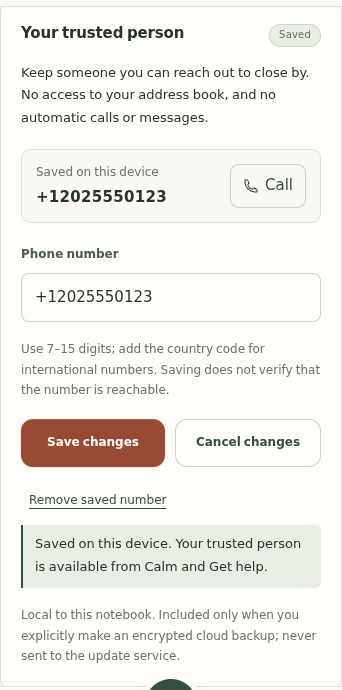
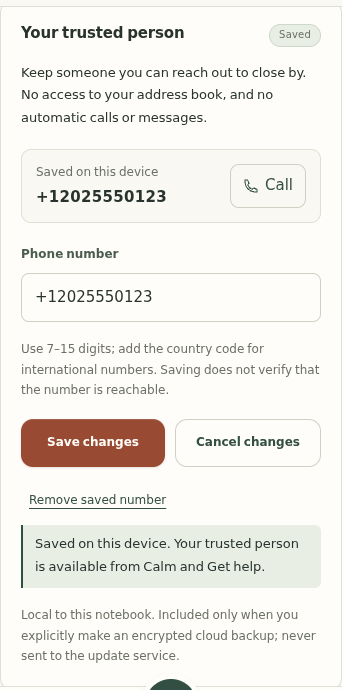
Verify Google activation and refine resilient sign-in and contact edit feedback

diff --git a/src/account.js b/src/account.js
@@ -22,6 +22,7 @@ export function createAccountController(c) {
   const notify = (text, error = false) => {
     message = text;
     problem = error;
+    if (["panic", "crisis"].includes(c.getPage())) return;
     const el =
       c.root.querySelector("#account-status") ||
       c.root.querySelector("#global-status");
@@ -40,6 +41,11 @@ export function createAccountController(c) {
     return `<p id="account-status" role="status" aria-live="polite" class="status ${problem ? "error" : ""}">${c.escape(message)}</p>`;
   }
   function authError(error) {
+    if (error?.code === "google_settings_unavailable")
+      return tr(
+        "Could not check Google sign-in right now. Check your connection and try again. This does not mean your account is disabled; guest mode and Calm are still available.",
+        "अभी Google साइन-इन की उपलब्धता नहीं जाँच सके। कनेक्शन जाँचकर फिर कोशिश करें। इसका अर्थ खाता बंद होना नहीं है; अतिथि मोड और सुकून उपलब्ध हैं।",
+      );
     if (error?.code === "google_provider_disabled")
       return tr(
         "Google sign-in is not enabled for Saath yet. The project owner must configure Google OAuth in Supabase. Email sign-in and guest mode are still available.",
@@ -65,24 +71,36 @@ export function createAccountController(c) {
       "अनुरोध पूरा नहीं हुआ। जानकारी और कनेक्शन जाँचकर फिर कोशिश करें।",
     );
   }
+  function syncBusyUI() {
+    c.root
+      .querySelectorAll(
+        '#account-form button, [data-action="google-signin"], #google-consent',
+      )
+      .forEach((el) => (el.disabled = busy));
+    for (const el of c.root.querySelectorAll(
+      '#account-form, .google-option, [data-action="google-signin"]',
+    )) {
+      if (busy) el.setAttribute("aria-busy", "true");
+      else el.removeAttribute("aria-busy");
+    }
+    const label = c.root.querySelector("[data-google-label]");
+    if (label)
+      label.textContent = busy
+        ? tr("Please wait…", "कृपया प्रतीक्षा करें…")
+        : tr("Continue with Google", "Google से जारी रखें");
+  }
   async function run(task) {
     if (busy) return;
     busy = true;
-    notify("");
-    c.root
-      .querySelectorAll('#account-form button, [data-action="google-signin"]')
-      .forEach((el) => (el.disabled = true));
-    c.root.querySelector("#account-form")?.setAttribute("aria-busy", "true");
+    notify(tr("Working…", "काम चल रहा है…"));
+    syncBusyUI();
     try {
       await task();
     } catch (error) {
       notify(authError(error), true);
     } finally {
       busy = false;
-      c.root
-        .querySelectorAll('#account-form button, [data-action="google-signin"]')
-        .forEach((el) => (el.disabled = false));
-      c.root.querySelector("#account-form")?.removeAttribute("aria-busy");
+      syncBusyUI();
       c.root
         .querySelectorAll("#auth-password, #vault-password")
         .forEach((el) => (el.value = ""));
@@ -155,7 +173,7 @@ export function createAccountController(c) {
     return `<div class="card account-summary"><div class="eyebrow">${tr("ACCOUNT", "खाता")}</div><h2>${user ? tr("Signed in", "साइन इन है") : tr("On this device only", "केवल इस डिवाइस पर")}</h2><p>${user ? c.escape(user.email || "") : tr("No account needed for local journaling or Calm.", "स्थानीय डायरी या सुकून के लिए खाता ज़रूरी नहीं।")}</p>${c.button(user ? tr("Account & backup", "खाता और बैकअप") : tr("Sign in / create account", "साइन इन / खाता बनाएँ"), user ? "account" : "login", "quiet wide")}</div>`;
   }
   function googleOption() {
-    return `<div class="google-option">${status()}<label class="check-row"><input id="google-consent" type="checkbox"><span>${tr("I am 18+ and choose to share my Google email and basic profile with Supabase for sign-in. This device stores my session; my notebook is not uploaded.", "मैं 18+ हूँ और साइन-इन के लिए अपना Google ईमेल और बुनियादी प्रोफ़ाइल Supabase से साझा करना चुनता/चुनती हूँ। यह डिवाइस सत्र रखता है; डायरी अपलोड नहीं होती।")}</span></label>${c.button(tr("Continue with Google", "Google से जारी रखें"), "google-signin", "quiet wide google-button")}<p class="auth-divider">${tr("or use email", "या ईमेल उपयोग करें")}</p></div>`;
+    return `<div class="google-option">${status()}<label class="check-row"><input id="google-consent" type="checkbox"><span>${tr("I am 18+ and choose to share my Google email and basic profile with Supabase for sign-in. This device stores my session; my notebook is not uploaded.", "मैं 18+ हूँ और साइन-इन के लिए अपना Google ईमेल और बुनियादी प्रोफ़ाइल Supabase से साझा करना चुनता/चुनती हूँ। यह डिवाइस सत्र रखता है; डायरी अपलोड नहीं होती।")}</span></label>${c.button(`<span class="google-state-mark" aria-hidden="true">G</span><span data-google-label>${tr("Continue with Google", "Google से जारी रखें")}</span>`, "google-signin", "quiet wide google-button")}<p class="auth-divider">${tr("or use email", "या ईमेल उपयोग करें")}</p></div>`;
   }
   function renderPage(page) {
     if (!accountPages.includes(page)) return null;
@@ -179,6 +197,7 @@ export function createAccountController(c) {
     return `<h1>${tr("A backup, only if you want one.", "बैकअप, अगर आप चाहें।")}</h1><p>${tr("One encrypted backup per account. Upload replaces the previous cloud copy; restore replaces this account’s local notebook. There is no automatic upload or merge.", "हर खाते का एक एन्क्रिप्टेड बैकअप। अपलोड पिछली क्लाउड कॉपी बदलता है; रिस्टोर इस खाते की स्थानीय डायरी बदलता है। अपने आप अपलोड या मर्ज नहीं होता।")}</p><div class="notice">${tr("Use a separate backup passphrase. It is never saved or sent to Supabase. If you forget it, neither a password reset nor support can unlock your backup. Account email, backup timestamps and encrypted size are visible to the service; notebook content is encrypted before upload. Local storage remains unencrypted.", "अलग बैकअप पासफ़्रेज़ रखें। इसे सेव या Supabase को नहीं भेजा जाता। भूलने पर पासवर्ड रीसेट या सहायता बैकअप नहीं खोल सकती। सेवा को खाता ईमेल, बैकअप समय और एन्क्रिप्टेड आकार दिखता है; डायरी अपलोड से पहले एन्क्रिप्ट होती है। स्थानीय स्टोरेज बिना एन्क्रिप्शन के है।")}</div><form id="account-form" data-cloud-form><label for="vault-password">${tr("Backup passphrase (12+ characters)", "बैकअप पासफ़्रेज़ (12+ अक्षर)")}</label><input id="vault-password" type="password" minlength="12" maxlength="1024" autocomplete="off" required><label class="check-row"><input id="cloud-consent" type="checkbox" required><span>${tr("I choose to transfer this account’s notebook, including journal entries, drafts, mood, reflections, contact and screening answers, as encrypted data. I understand the replacement and passphrase limits above.", "मैं इस खाते की डायरी—पन्ने, ड्राफ़्ट, मन की बात, चिंतन, संपर्क और स्क्रीनिंग उत्तर—एन्क्रिप्टेड डेटा के रूप में ट्रांसफ़र करना चुनता हूँ। ऊपर दिए बदलाव और पासफ़्रेज़ की सीमाएँ समझता हूँ।")}</span></label><div class="row"><button type="submit" value="upload" class="primary">${tr("Encrypt & upload", "एन्क्रिप्ट और अपलोड")}</button><button type="submit" value="restore" class="quiet">${tr("Unlock & restore", "खोलें और रिस्टोर करें")}</button></div>${status()}${b(tr("Delete cloud backup only", "केवल क्लाउड बैकअप मिटाएँ"), "delete-cloud", "text-button")}</form><p class="notice">${tr("Not an audited encryption product. Keep important records elsewhere. For a shared device, sign out; app-level local encryption and secure native token storage remain production work.", "यह ऑडिट किया हुआ एन्क्रिप्शन उत्पाद नहीं है। ज़रूरी रिकॉर्ड कहीं और रखें। साझा डिवाइस पर साइन आउट करें; ऐप-स्तर स्थानीय एन्क्रिप्शन और सुरक्षित नेटिव टोकन स्टोरेज का काम बाकी है।")}</p>`;
   }
   function bind() {
+    syncBusyUI();
     c.root
       .querySelector("[data-auth-form]")
       ?.addEventListener("submit", (event) => {
@@ -370,6 +389,12 @@ export function createAccountController(c) {
         return true;
       }
       run(async () => {
+        notify(
+          tr(
+            "Checking Google availability and opening secure sign-in…",
+            "Google की उपलब्धता जाँच रहे हैं और सुरक्षित साइन-इन खोल रहे हैं…",
+          ),
+        );
         await c.startGoogleSignIn();
         notify(
           tr(

diff --git a/src/main.js b/src/main.js
@@ -210,8 +210,10 @@ function render() {
   account.bind();
   bindExtra(root, featureContext());
   if (page === "settings") {
+    updateContactDraftUI();
     root.querySelector("#phone")?.addEventListener("input", (event) => {
       contactDraft = event.target.value;
+      updateContactDraftUI();
     });
   }
   if (page === "journal") {
@@ -330,6 +332,36 @@ function normalizedContact(value) {
   if (!raw || !/^\+?[\d ()-]+$/.test(raw)) return null;
   const normalized = raw.replace(/[ ()-]/g, "");
   return /^\+?\d{7,15}$/.test(normalized) ? normalized : null;
+}
+function contactDirty() {
+  return (
+    contactDraft !== undefined &&
+    contactDraft.trim() !== String(state.phone ?? "").trim()
+  );
+}
+function updateContactDraftUI() {
+  const dirty = contactDirty(),
+    saved = normalizedContact(state.phone);
+  const badge = root.querySelector(".contact-badge");
+  const label = dirty
+    ? t("Unsaved changes", "बदलाव सेव नहीं हैं")
+    : saved
+      ? t("Saved", "सेव है")
+      : t("Optional", "वैकल्पिक");
+  if (badge && badge.textContent !== label) badge.textContent = label;
+  root
+    .querySelector(".trusted-contact")
+    ?.classList.toggle("has-unsaved-changes", dirty);
+  const status = root.querySelector("#status");
+  const note = dirty
+    ? t(
+        "Changes are not saved yet. Tap Save, or cancel to keep the saved number.",
+        "बदलाव अभी सेव नहीं हैं। सेव करें, या पुराना नंबर रखने के लिए रद्द करें।",
+      )
+    : "";
+  if (status && status.textContent !== note) status.textContent = note;
+  if (normalizedContact(contactDraft))
+    root.querySelector("#phone")?.removeAttribute("aria-invalid");
 }
 function trustedContactCard() {
   const saved = normalizedContact(state.phone);

diff --git a/src/google-sign-in.js b/src/google-sign-in.js
@@ -10,13 +10,24 @@ export async function beginGoogleSignIn({
   navigate,
   fetchImpl = fetch,
 }) {
-  const settings = await fetchImpl(`${projectURL}/auth/v1/settings`, {
-    headers: { apikey: publishableKey },
-    signal: AbortSignal.timeout(15000),
-  });
-  if (!settings.ok) throw new Error("Auth unavailable");
-  const providers = await settings.json();
-  if (providers.external?.google !== true) {
+  let providers;
+  try {
+    const settings = await fetchImpl(`${projectURL}/auth/v1/settings`, {
+      headers: { apikey: publishableKey },
+      cache: "no-store",
+      credentials: "omit",
+      signal: AbortSignal.timeout(15000),
+    });
+    if (!settings.ok) throw new Error("Auth unavailable");
+    providers = await settings.json();
+    if (typeof providers?.external?.google !== "boolean")
+      throw new Error("Unknown provider status");
+  } catch {
+    const error = new Error("Could not check Google availability");
+    error.code = "google_settings_unavailable";
+    throw error;
+  }
+  if (providers.external.google !== true) {
     const error = new Error("Google provider is not configured");
     error.code = "google_provider_disabled";
     throw error;
@@ -34,7 +45,11 @@ export async function beginGoogleSignIn({
   if (
     target.origin !== new URL(projectURL).origin ||
     target.pathname !== "/auth/v1/authorize" ||
-    target.protocol !== "https:"
+    target.protocol !== "https:" ||
+    target.username ||
+    target.password ||
+    target.hash ||
+    target.searchParams.get("provider") !== "google"
   )
     throw new Error("Invalid authorization URL");
   if (native) await openExternal(target.href);

diff --git a/src/style.css b/src/style.css
@@ -1523,3 +1523,44 @@ input[aria-invalid="true"] {
 }
 /* No new page animation for crisis/Calm; the global reduce rule above remains
    authoritative because all new movement is gated by no-preference. */
+
+/* Sign-in feedback retains its button footprint; no decorative page movement. */
+.google-button {
+  justify-content: center;
+  gap: 10px;
+  min-height: 50px;
+}
+.google-state-mark {
+  display: inline-grid;
+  place-items: center;
+  width: 20px;
+  height: 20px;
+  flex: 0 0 20px;
+  border: 1.5px solid currentColor;
+  border-radius: 50%;
+  font-size: 11px;
+}
+.google-button[aria-busy="true"] {
+  opacity: 0.8;
+  cursor: progress;
+}
+.google-button[aria-busy="true"] .google-state-mark {
+  font-size: 0;
+  border-color: #b4c1b2;
+  border-top-color: var(--forest);
+}
+.trusted-contact.has-unsaved-changes .contact-badge {
+  background: #fff1dd;
+  color: #754a13;
+  border-color: #e0c9a4;
+}
+@media (prefers-reduced-motion: no-preference) {
+  .google-button[aria-busy="true"] .google-state-mark {
+    animation: sign-in-wait 800ms linear infinite;
+  }
+  @keyframes sign-in-wait {
+    to {
+      transform: rotate(360deg);
+    }
+  }
+}

diff --git a/docs/CONTACT_UI_AND_SERVICE_CHECKS.md b/docs/CONTACT_UI_AND_SERVICE_CHECKS.md
@@ -15,7 +15,7 @@ A principles-inspired implementation of fast feedback, clear hierarchy and restr
 - Connected project reports healthy Auth, database, REST and Storage services.
 - Metadata-only queries confirm vault RLS enabled and forced, all four authenticated own-row policies use `auth.uid() = user_id`, anonymous table reads denied, authenticated table privilege present behind RLS, and data-deletion function is security-invoker with expected-identity guard and no anonymous execution.
 - No real user rows were queried or modified. Metadata/health is not proof of every workflow's correctness.
-- The owner reports successful Google sign-in, but live public Auth settings returned **Google enabled=false**, email enabled=true. OAuth implementation is preserved, and no provider settings were modified. The mismatch is unresolved (a cached session/different build or project is possible, not proven). The public-settings smoke script prints only provider-enabled booleans, never credentials. A distinct CI Google-readiness job requires Google enabled; it fails visibly and blocks new APK release publishing while ordinary database smoke/native compilation can still run. This is not an independent real-account OAuth/device test.
+- Latest recheck: live public Auth settings now report **Google enabled=true**, email enabled=true, and the prior failing Google-readiness CI rerun passes. This resolves the earlier configuration mismatch. OAuth requests and provider metadata checks do not retrieve Google client credentials or notebook contents. The readiness job remains separate from database/native compilation. This is not an independent real-account OAuth/device test.
 - Direct local Supabase HTTPS smoke checks fail with environment ECONNRESET; native CI is used to run those public-endpoint checks. Do not interpret this local network failure as a database outage or call it a successful local test.
 - 30 headless Chromium checks: Home, Journal, My space, Calm and crisis at 320/390/768 widths in both languages. No horizontal overflow or page errors; additional actual-browser contact save/reload, journal feedback and reduced-motion checks passed. The screenshot uses a reserved fictional North American phone number, not a participant's number.
 - Automated tests cover storage/auth/backup logic using mocks and WebCrypto. They do not replace real-account backup/restore across two devices or a real Google OAuth cancellation/cold-start callback test. Physical Android, secure native storage and clinical/youth review remain outstanding.
@@ -25,3 +25,14 @@ A principles-inspired implementation of fast feedback, clear hierarchy and restr
 The main-branch push publisher has a public-configuration plus `SAATH_OTA_BOOTSTRAP_READY` readiness job. Unconfigured releases emit an explicit disabled notice and skip publication. Configured releases still require protected-environment approval (configure required reviewers), tests, matching native fingerprint/keys and a new immutable version. No forced install/reload is added. Existing signature verification, Settings-only confirmed restart, account-operation guard and rollback controls remain.
 
 Current state: no trust key/native baseline in `src/ota-config.json`; native key sentinel remains. GitHub Actions Secrets metadata access still returns HTTP 403. No key/secret/OTA release was created. Neither distributed 0.7.0/0.7.1 nor this unconfigured source can become OTA-enabled by a database update. Owner provisioning, stable native signing identity, one configured-bootstrap install and physical signed-update/rollback QA are mandatory. After this one-time work, new compatible web versions can be offered through main pushes; native changes still need APKs. Setting the bootstrap variable is a release decision, not a test workaround.
+
+
+## Follow-up polish after Google activation
+
+The provider check now explicitly bypasses caches and omits cookies. Malformed or unreachable settings get a retry/connection message rather than a misleading disabled-provider message. Authorization URLs must use the configured HTTPS project, the authorize path and `provider=google`, with no userinfo or fragment. Sign-in shows a stable busy label/indicator and accessible busy state; duplicate submissions stay blocked across language rerenders. Calm/Get help remain navigable, and late authentication status never replaces crisis/Calm guidance. Error details from the provider are still not reflected into UI/URLs.
+
+Trusted-number input now indicates **Unsaved changes** while retaining the old saved number for calls until an explicit successful Save. Cancel restores the saved value, and leaving/returning to the screen retains the in-memory edit indicator. No new database field, permissions, automatic upload or schema migration is introduced.
+
+Regression tests include provider-disabled → enabled retry, public-only uncached requests, malformed/offline settings, strict OAuth URL boundaries, duplicate submission prevention, bilingual busy rerenders, urgent-screen preservation and contact dirty-state recovery. Google activation does not activate OTA; the trust-key/bootstrap setup remains a separate pending release gate.
+
+Follow-up validation: 84 automated tests pass. The 30 bilingual responsive checks were repeated after these refinements. Additional headless-browser checks exercised a deliberately stalled/failed provider-settings fixture: busy rendering remained disabled across language redraw, reduced-motion spinner stayed static, urgent navigation remained available and late completion did not overwrite crisis guidance. Contact dirty-state recovery and dialing the saved—not unsaved—number were also checked in the actual browser. Real public provider availability was separately verified by the successful Google-readiness rerun of Actions run 45342976287; this browser fixture is not evidence of a real OAuth round trip.

diff --git a/docs/SUPABASE.md b/docs/SUPABASE.md
@@ -68,7 +68,7 @@ Before any public pilot: complete email/device end-to-end tests, review SQL/cryp
 
 ## Google sign-in activation (0.5.1)
 
-**Latest verification:** the owner reports Google sign-in works, but the live public Auth settings for `ittnpegkfonxvkcfqmgd` report **Google enabled=false** and email enabled=true. Do not mark this provider ready until the mismatch is resolved in the configured project. Existing sessions or another build/project are possible explanations, not established facts. A separate CI Google-readiness check reports this failure without reading client credentials; standard database smoke checks run separately. No provider configuration was changed by this inspection. The activation checklist below remains applicable.
+**Latest verification:** public Auth settings for `ittnpegkfonxvkcfqmgd` now report **Google enabled=true** and **email enabled=true**. The previous disabled-provider mismatch is resolved and the Google-readiness CI rerun passed. Availability checks use `cache: no-store`; network/malformed-settings failures are not labelled a disabled provider. No credentials or provider settings were read/changed. This does not independently validate a real Google account or Android callback; the checklist below remains relevant.
 
 1. In **Google Cloud Console → Google Auth Platform**, select/create your project and configure branding, audience and consent information. For an external app in testing, add the intended Google test users. Use only basic identity scopes (openid/email/profile), not Drive, Contacts or Gmail access. Supply real support/privacy details before publishing.
 2. Under **Clients / Credentials**, create an **OAuth 2.0 client of type Web application**. This browser-based Supabase flow uses a web client even on Android; it does not use a native Google SDK or Android SHA fingerprint configuration.

diff --git a/README.md b/README.md
@@ -54,7 +54,7 @@ Connected to your **saath** Supabase project. Sign in/create account is availabl
 
 **Continue with Google** is available on sign-in and signup, with a separate 18+/identity-sharing choice. Android uses a system browser/Custom Tab; web uses a full-page redirect. Both return through Supabase PKCE. No notebook upload follows login.
 
-**Latest verification:** the owner reports Google sign-in is working, but the current live public Auth settings for this configured project report **Google enabled=false**, email enabled=true. This mismatch is unresolved; existing sessions or a different project/build may explain it. The flow is preserved. A separate CI readiness job fails explicitly when Google is disabled; it does not masquerade as a database failure, and new APK release publishing requires that readiness job. A provider-enabled check is not an independent real-account OAuth/device callback test. Follow [Google setup and verification](docs/SUPABASE.md#google-sign-in-activation-051) for new environments; keep credentials in Supabase, not source/chat.
+**Latest verification:** fresh public Auth settings for the app's configured project now report **Google enabled=true** and **email enabled=true**. The earlier disabled-provider mismatch is resolved, and the rerun Google-readiness check passes. Checks bypass cached provider settings; transient network/settings errors are distinguished from an explicitly disabled provider. No OAuth credentials were read or changed. Provider readiness is not a real-account Android/browser callback test. Follow [Google setup and verification](docs/SUPABASE.md#google-sign-in-activation-051) for deployment/device checks.
 
 ## Run and test
 
